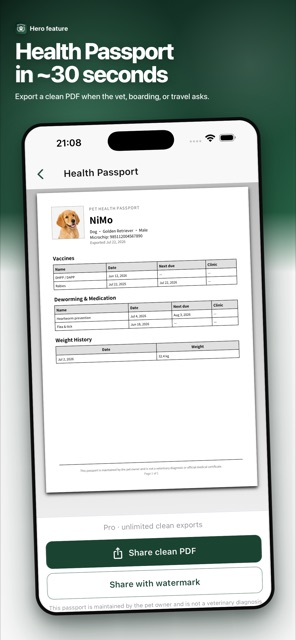
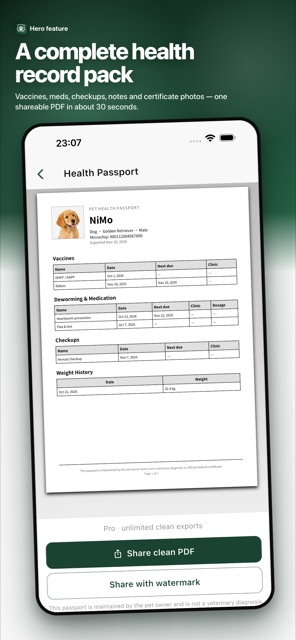
Fix hero image stretching; use v2 record pack poster

diff --git a/docs/index.html b/docs/index.html
@@ -53,7 +53,7 @@
     .btn-ghost { border: 1px solid var(--line); background: var(--card); color: var(--green); }
     .hero small { display: block; margin-top: 14px; color: var(--muted); font-size: 14px; }
     .hero img {
-      width: 100%; max-width: 320px; border-radius: 24px;
+      width: 100%; max-width: 320px; height: auto; border-radius: 24px;
       border: 1px solid var(--line); box-shadow: 0 12px 32px rgba(27, 67, 50, 0.12);
       justify-self: center;
     }
